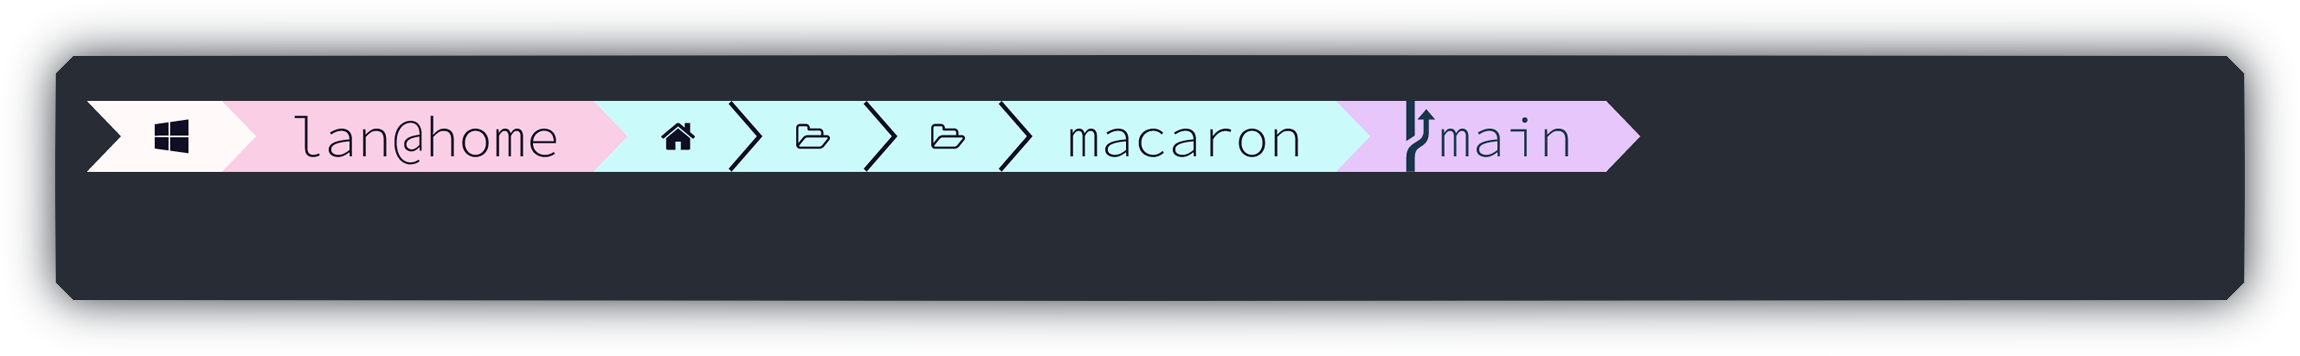
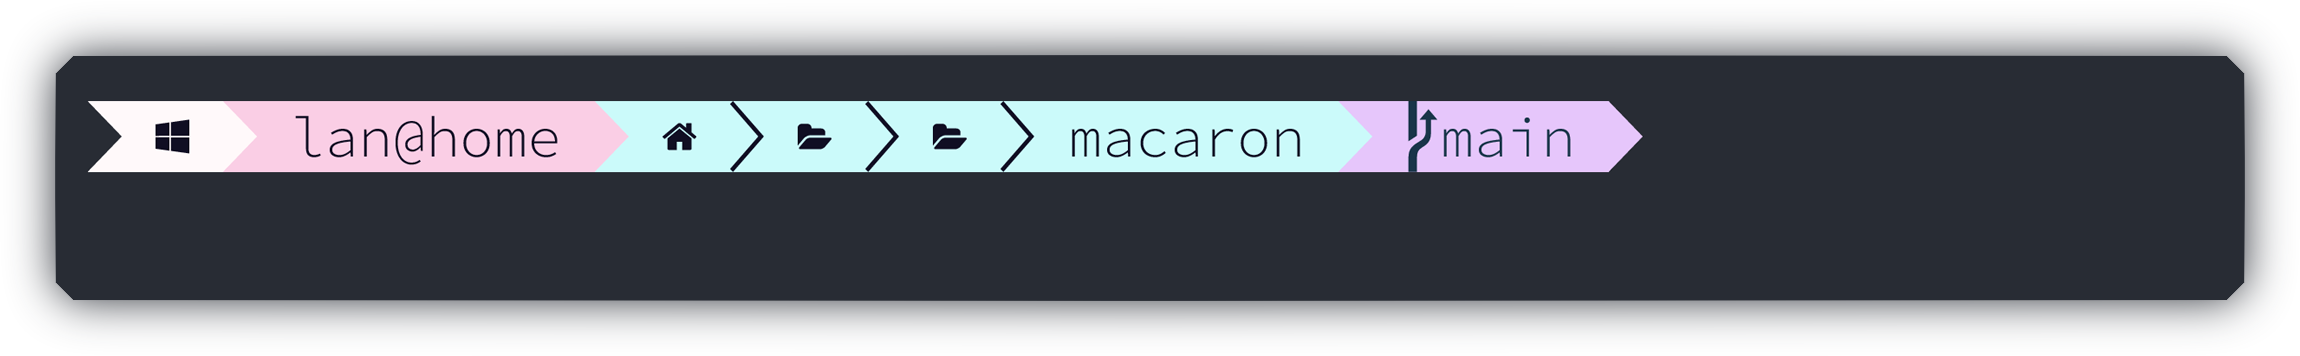
BREAKING CHANGE: solid folder & clearer status segment

diff --git a/README.md b/README.md
@@ -6,4 +6,4 @@ Install [Oh My Posh][omp] and [configure your prompt][cfg] with `--config <theme
 
 [omp]: <https://ohmyposh.dev/docs/>
 [cfg]: <https://ohmyposh.dev/docs/installation/customize#config-syntax>
-[dl]: <https://github.com/lanlytt/macaron/releases/download/0.1.0/macaron.omp.json>
+[dl]: <https://github.com/lanlytt/macaron/releases/download/0.2.0/macaron.omp.json>